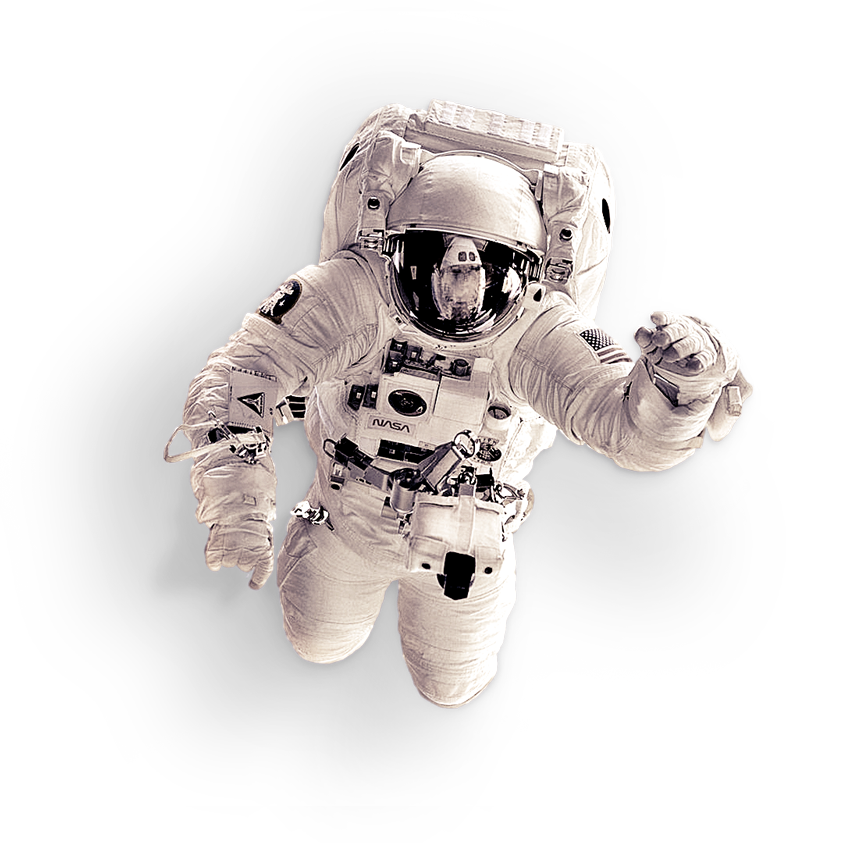
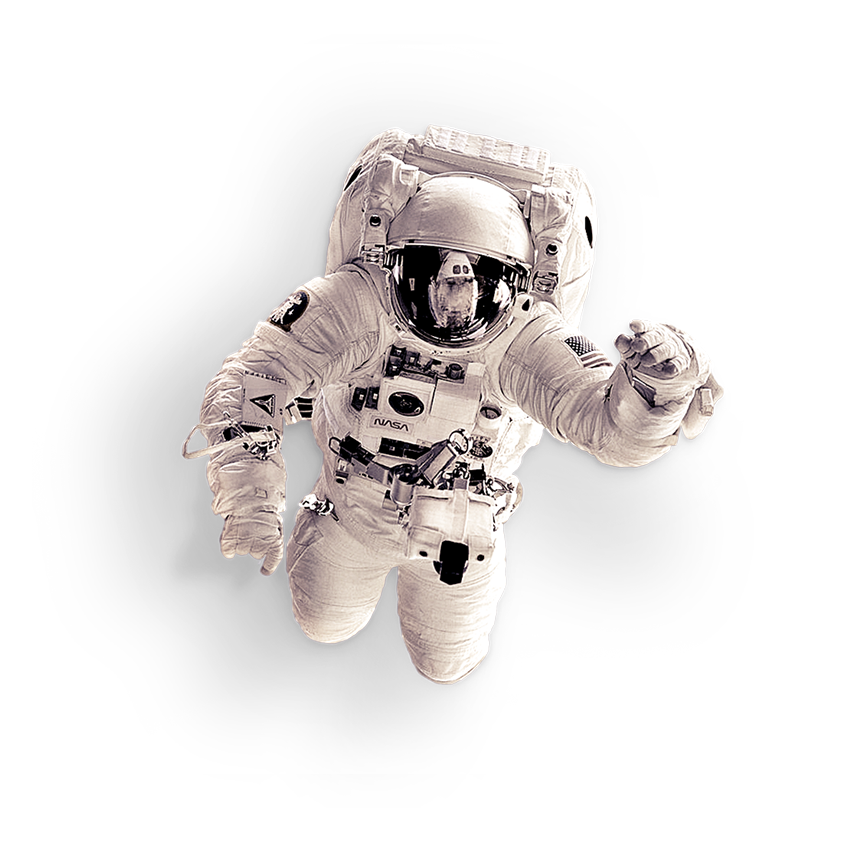
case 10gforce

Changed region(s): [[0.1835, 0.1234, 0.8871, 0.8636]]

diff --git a/app/assets/stylesheets/components/_desktop_slider.sass b/app/assets/stylesheets/components/_desktop_slider.sass
@@ -1,38 +1,42 @@
 +keyframes(animate-desktop-slider-bg)
 	0%
-		height: 100px
+		height: 0
 	100%
-		height: 600px
+		height: 70%
 .desktop-slider
-	$slider-height: 500px
+	$slider-height: 100%
+	margin: 0 auto
+	@media #{$small-only}
+		width: 80%
 
-	height: 1000px
 	position: relative
-	overflow: hidden
 	.slider-outer
-		max-width: 1160px
+		max-width: 1000px
 		margin: 0 auto
 		position: relative
+		overflow: hidden
 	.screen-image
 
-		width: 100%
-		position: absolute
+		width: 90%
+
+		position: relative
+
+		margin: 0 auto
 		img
 			z-index: 1
 			margin: 0 auto
 			display: block
 			position: relative
 			width: 100%
-			max-width: 1160px
+			// max-width: 1000px
 
 		&:before
+			content: ''
 			position: absolute
-			height: 600px
-			bottom: 140px
-			left: 0
-			right: 0
-			content: ""
-
+			height: 70%
+			bottom: 10%
+			left: -50px
+			right: -50px
 
 	&.animate-bg
 		.screen-image
@@ -43,20 +47,29 @@
 
 
 	.slider-inner
-		padding: 95px 120px 294px 140px
+		position: absolute
+		top: 4%
+		left: 8%
+		right: 8%
+		height: 70%
 		.screen-images-bxslider-wrap
 			height: $slider-height
 
 	.screen-images-bxslider
 		height: $slider-height
+		img
+			height: 100%
+			width: 100%
 
 	.screen-images-bxslider-wrap
 		.bx-wrapper
 			border: none
 			box-shadow: none
+			height: 100%
+			margin: 0
 
 		.bx-viewport
-			height: auto !important
+			height: 100% !important
 
 
 	.custom-controls

diff --git a/app/assets/stylesheets/components/animation.sass b/app/assets/stylesheets/components/animation.sass
@@ -1,0 +1,34 @@
+.banner-image-container
+  img
+    animation: animationFrames linear 30s
+    animation-iteration-count: infinite
+    -webkit-animation: animationFrames linear 30s
+    -webkit-animation-iteration-count: infinite
+    -moz-animation: animationFrames linear 30s
+    -moz-animation-iteration-count: infinite
+    -o-animation: animationFrames linear 30s
+    -o-animation-iteration-count: infinite
+    -ms-animation: animationFrames linear 30s
+    -ms-animation-iteration-count: infinite
+
+@keyframes animationFrames
+  0%
+    -webkit-transform: rotate(0deg) translateX(50px) rotate(0deg)
+  10%
+    -webkit-transform: rotate(41deg) translateX(48px) rotate(-42deg)
+  30%
+    -webkit-transform: rotate(82deg) translateX(42px) rotate(-80deg)
+  40%
+    -webkit-transform: rotate(121deg) translateX(39px) rotate(-120deg)
+  50%
+    -webkit-transform: rotate(157deg) translateX(43px) rotate(-159deg)
+  60%
+    -webkit-transform: rotate(197deg) translateX(48px) rotate(-199deg)
+  70%
+    -webkit-transform: rotate(240deg) translateX(52px) rotate(-238deg)
+  80%
+    -webkit-transform: rotate(280deg) translateX(54px) rotate(-281deg)
+  90%
+    -webkit-transform: rotate(320deg) translateX(52px) rotate(-320deg)
+  100%
+    -webkit-transform: rotate(360deg) translateX(50px) rotate(-360deg)

diff --git a/app/assets/stylesheets/components/_project_bottom_banner.sass b/app/assets/stylesheets/components/_project_bottom_banner.sass
@@ -1,13 +1,23 @@
 .project-bottom-banner
-	height: 1000px
 	background-repeat: no-repeat
 	background-size: cover
 	overflow: hidden
+	@media #{$large-up}
+		height: 1000px
 
 	.project-description-block
-		max-width: 550px
+		// max-width: 550px
 		position: relative
-		top: 200px
+		margin-top: 100px
+		text-align: center
+		@media #{$landscape}
+			margin-top: 200px
+			max-width: 550px
+			text-align: initial
+		@media #{$large-up}
+			margin-top: 200px
+			max-width: 550px
+			text-align: initial
 		.title
 			font-weight: bold
 			line-height: 2.5rem
@@ -19,26 +29,40 @@
 	.banner-image-container
 		position: relative
 		height: 100vh
+		@media #{$small-only}
+			height: 70vh
 		img
 			position: absolute
 			right: 0
 			width: 150%
 			max-width: 800px
+			@media #{$small-only}
+				width: 100%
+				+scale(1.2)
 
 	.description
 		color: #212121
 		+font-23
 		+italic
 		margin: 30px 0 40px
+		@media #{$small-only}
+			font-size: 18px
+			margin: 20px 0 30px
  
 	.or-share
 		color: $light-gray-text-color
 		margin: 0 30px
 		+italic
+		@media #{$small-only}
+			display: block
+			margin: 5px 0
 
 
 	.social-link
-
+		width: 40px
+		margin: 0 5px
 
 	.actions
 		padding: 0
+		@media #{$small-only}
+			margin-top: 0

diff --git a/app/assets/stylesheets/themes/10g-force.sass b/app/assets/stylesheets/themes/10g-force.sass
@@ -56,12 +56,16 @@ body.theme-10g-force
 	.mono-colored-logos
 		.logo
 			background: white
-			padding-top: 75px
-			padding-bottom: 75px
 			svg
 			@media #{$small-only}
 				padding-top: 25px
 				padding-bottom: 25px
+			@media #{$medium-up}
+				padding-top: 35px
+				padding-bottom: 35px
+			@media #{$xlarge-up}
+				padding-top: 75px
+				padding-bottom: 75px
 
 
 			&:nth-child(1n)
@@ -71,14 +75,18 @@ body.theme-10g-force
 
 			&:nth-child(1n+4)
 				background: #212121
-				padding-top: 100px
-				padding-bottom: 100px
 				svg
 					width: 150px
 					height: 100px
 				@media #{$small-only}
 					padding-top: 25px
 					padding-bottom: 25px
+				@media #{$medium-up}
+					padding-top: 35px
+					padding-bottom: 35px
+				@media #{$xlarge-up}
+					padding-top: 100px
+					padding-bottom: 100px
 
 
 	.project-used-icons
@@ -91,4 +99,5 @@ body.theme-10g-force
 		background-color: white
 
 		img
-			+transform(scale(1.2))
+			@media #{$large-up}
+				+transform(scale(1.2))

diff --git a/app/assets/stylesheets/pages/project_page.sass b/app/assets/stylesheets/pages/project_page.sass
@@ -1,4 +1,7 @@
 .project-content
+	
+	.h2
+		letter-spacing: 1px
 
 	.fade-in
 		opacity: 0
@@ -82,11 +85,12 @@
 			font-size: 60px
 			top: -30px
 		@media #{$medium-only}
-			font-size: 200px
+			font-size: 150px
+			top: -70px
 		@media #{$large-up}
 			font-size: 280px
-		@media #{$xxlarge-up}
-			font-size: 500px
+		@media #{$xlarge-up}
+			font-size: 400px
 
 	.section-descriptive-title
 		letter-spacing: 5px
@@ -130,7 +134,9 @@
 			position: absolute
 			text-align: center
 			width: 100%
-			bottom: 30px
+			bottom: -50px
+			@media #{$small-only}
+				bottom: -40px
 
 
 			.page
@@ -202,3 +208,8 @@
 			+font-18
 			+header-font-family
 			padding-top: 16px
+	.full-width-image-slider
+		.custom-pager
+			bottom: 50px
+			@media #{$small-only}
+				bottom: 10px

diff --git a/app/assets/stylesheets/components/_project_banner.sass b/app/assets/stylesheets/components/_project_banner.sass
@@ -27,10 +27,14 @@
 
 	.description
 		color: $light-gray-text-color
-		max-width: 550px
+		// max-width: 550px
 		margin-top: 20px
+		text-align: center
 		+font-23
 		+italic
+		@media #{$large-up}
+			max-width: 550px
+			text-align: initial
 
 	@media #{$landscape}
 		padding-left: 3rem

diff --git a/app/assets/stylesheets/components/indents.sass b/app/assets/stylesheets/components/indents.sass
@@ -79,7 +79,9 @@
 .large-top-indent
 	+top-indent(200)
 .large-bottom-indent
-	+bottom-indent(200)
+	+bottom-indent(100)
+	@media #{$xlarge-up}
+		+bottom-indent(200)
 .large-inner-top-indent
 	+top-inner-indent(200)
 .large-inner-bottom-indent

diff --git a/app/assets/stylesheets/application.sass b/app/assets/stylesheets/application.sass
@@ -100,6 +100,7 @@
 @import "components/project_navigation"
 @import "components/desktop_slider"
 @import "components/articles_nav"
+@import "components/animation"
 
 @import "home_portfolio_slides"
 
